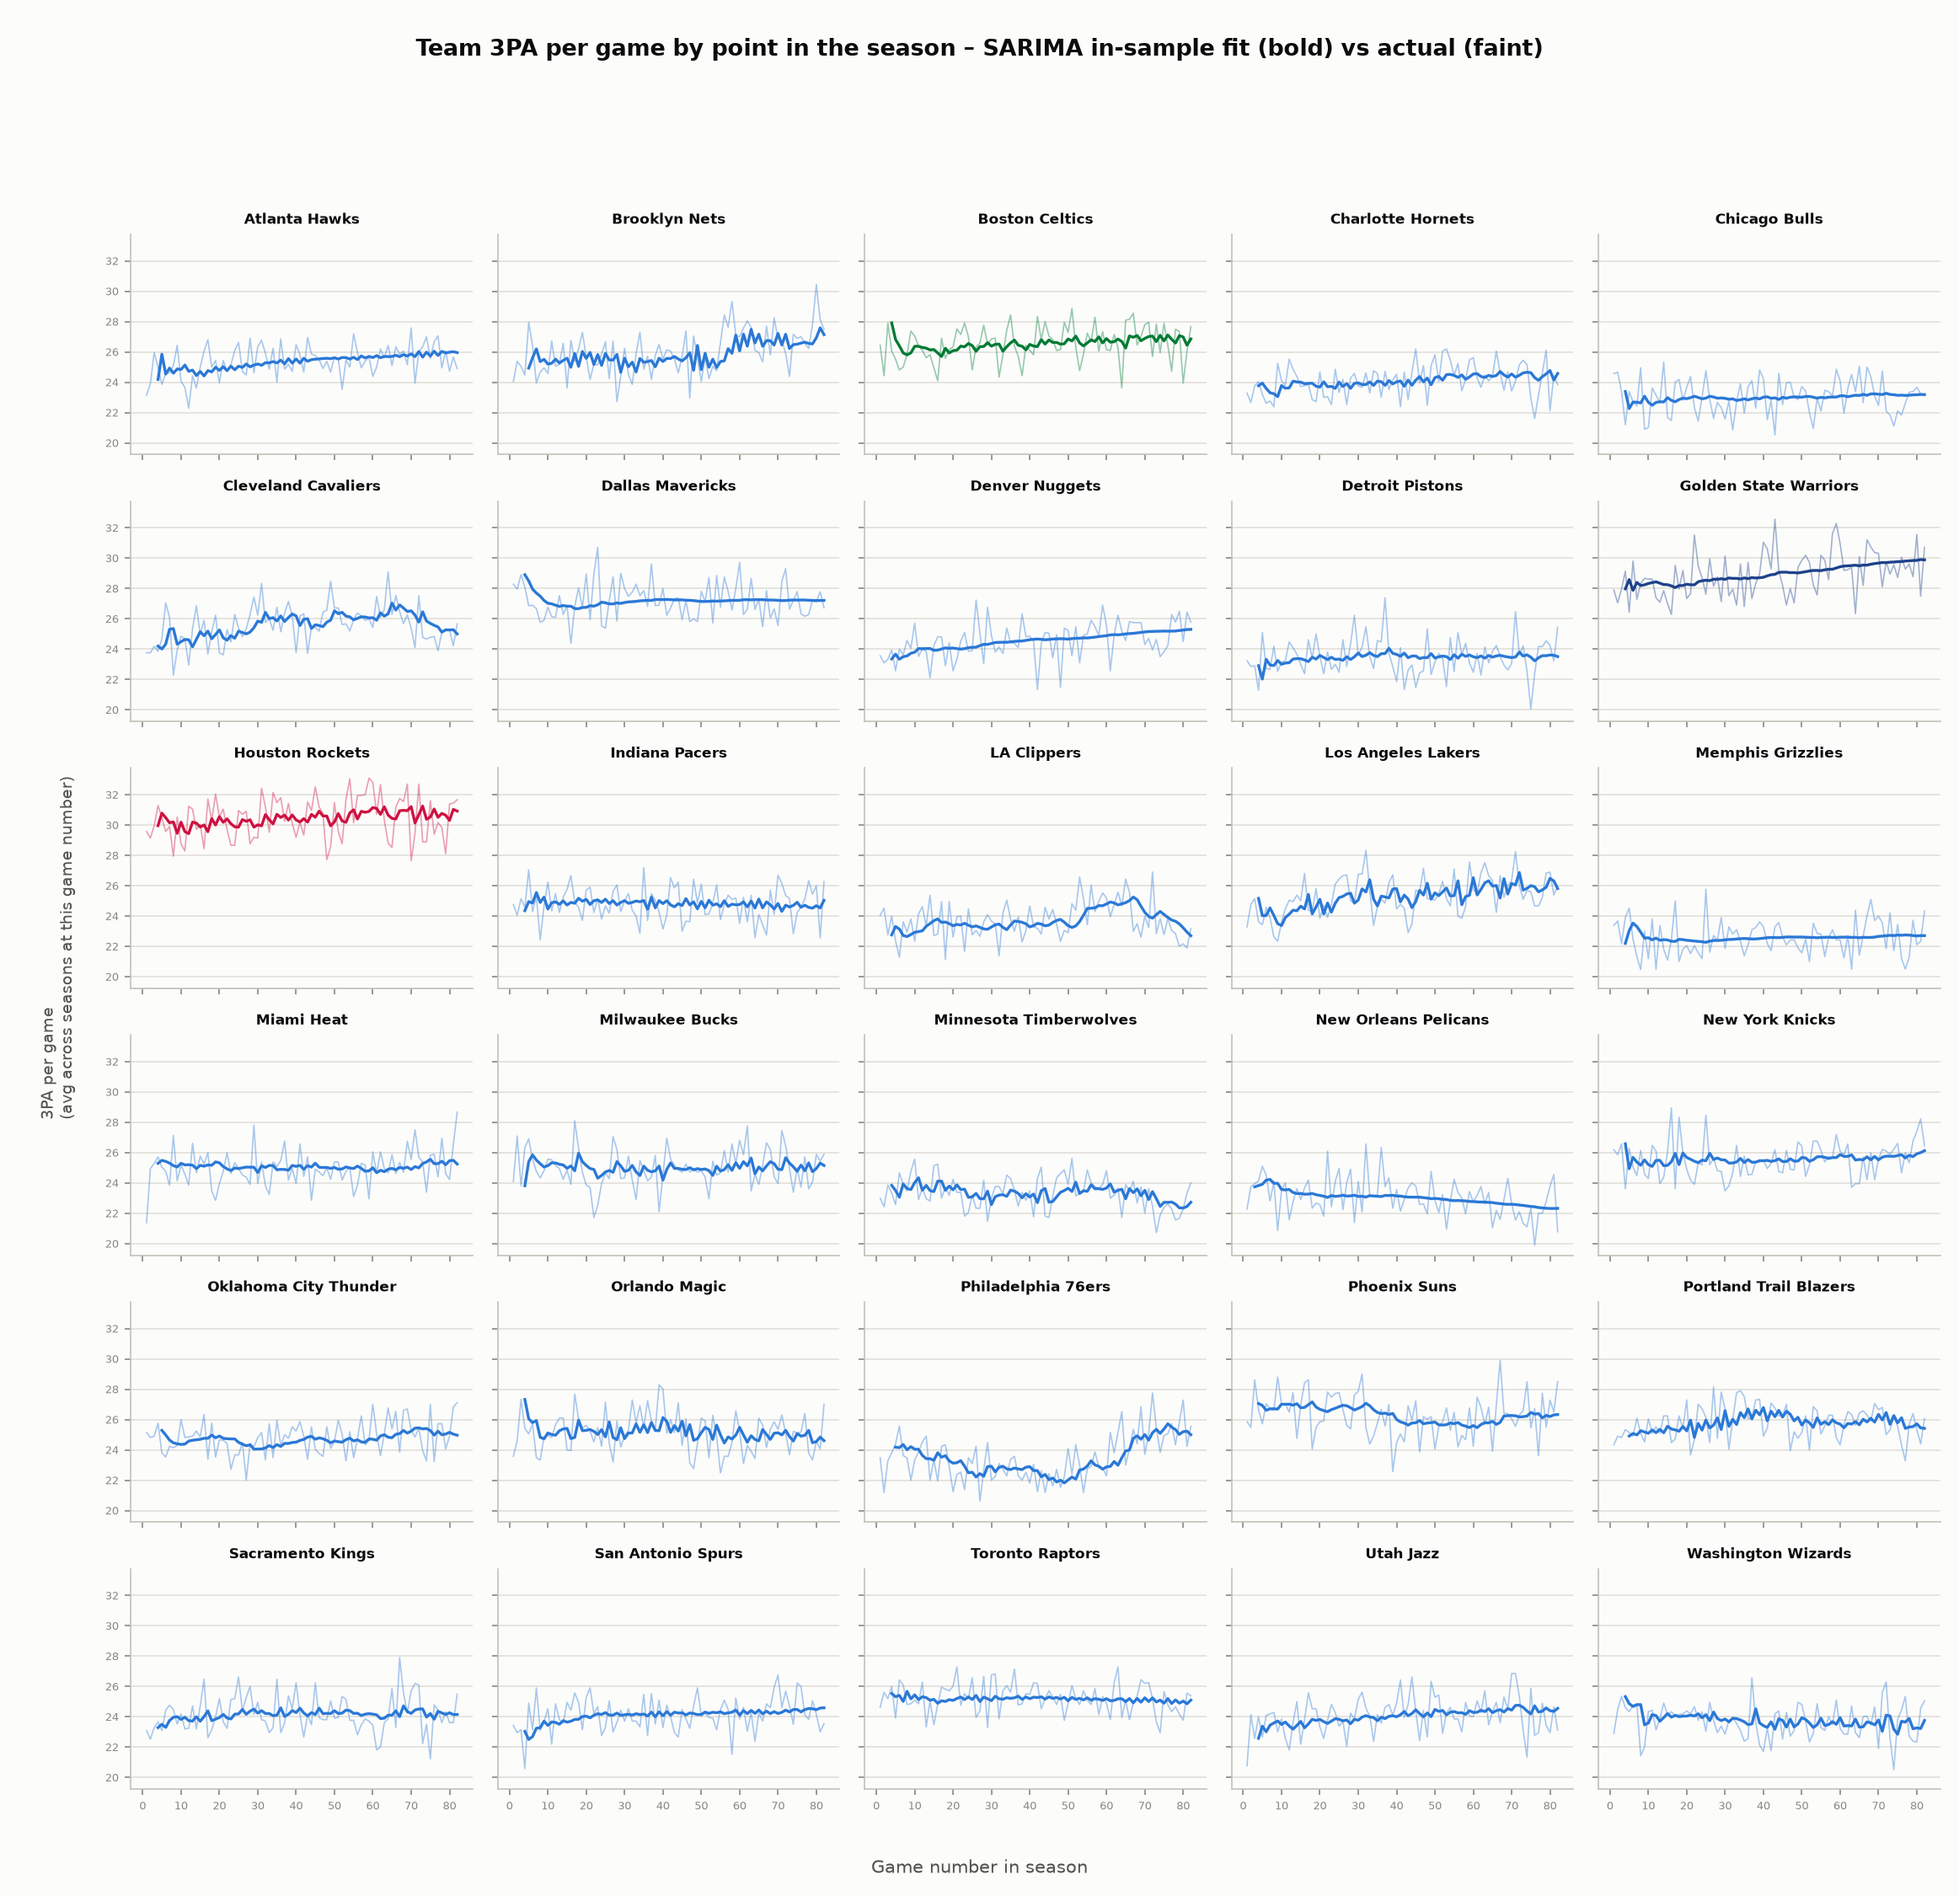
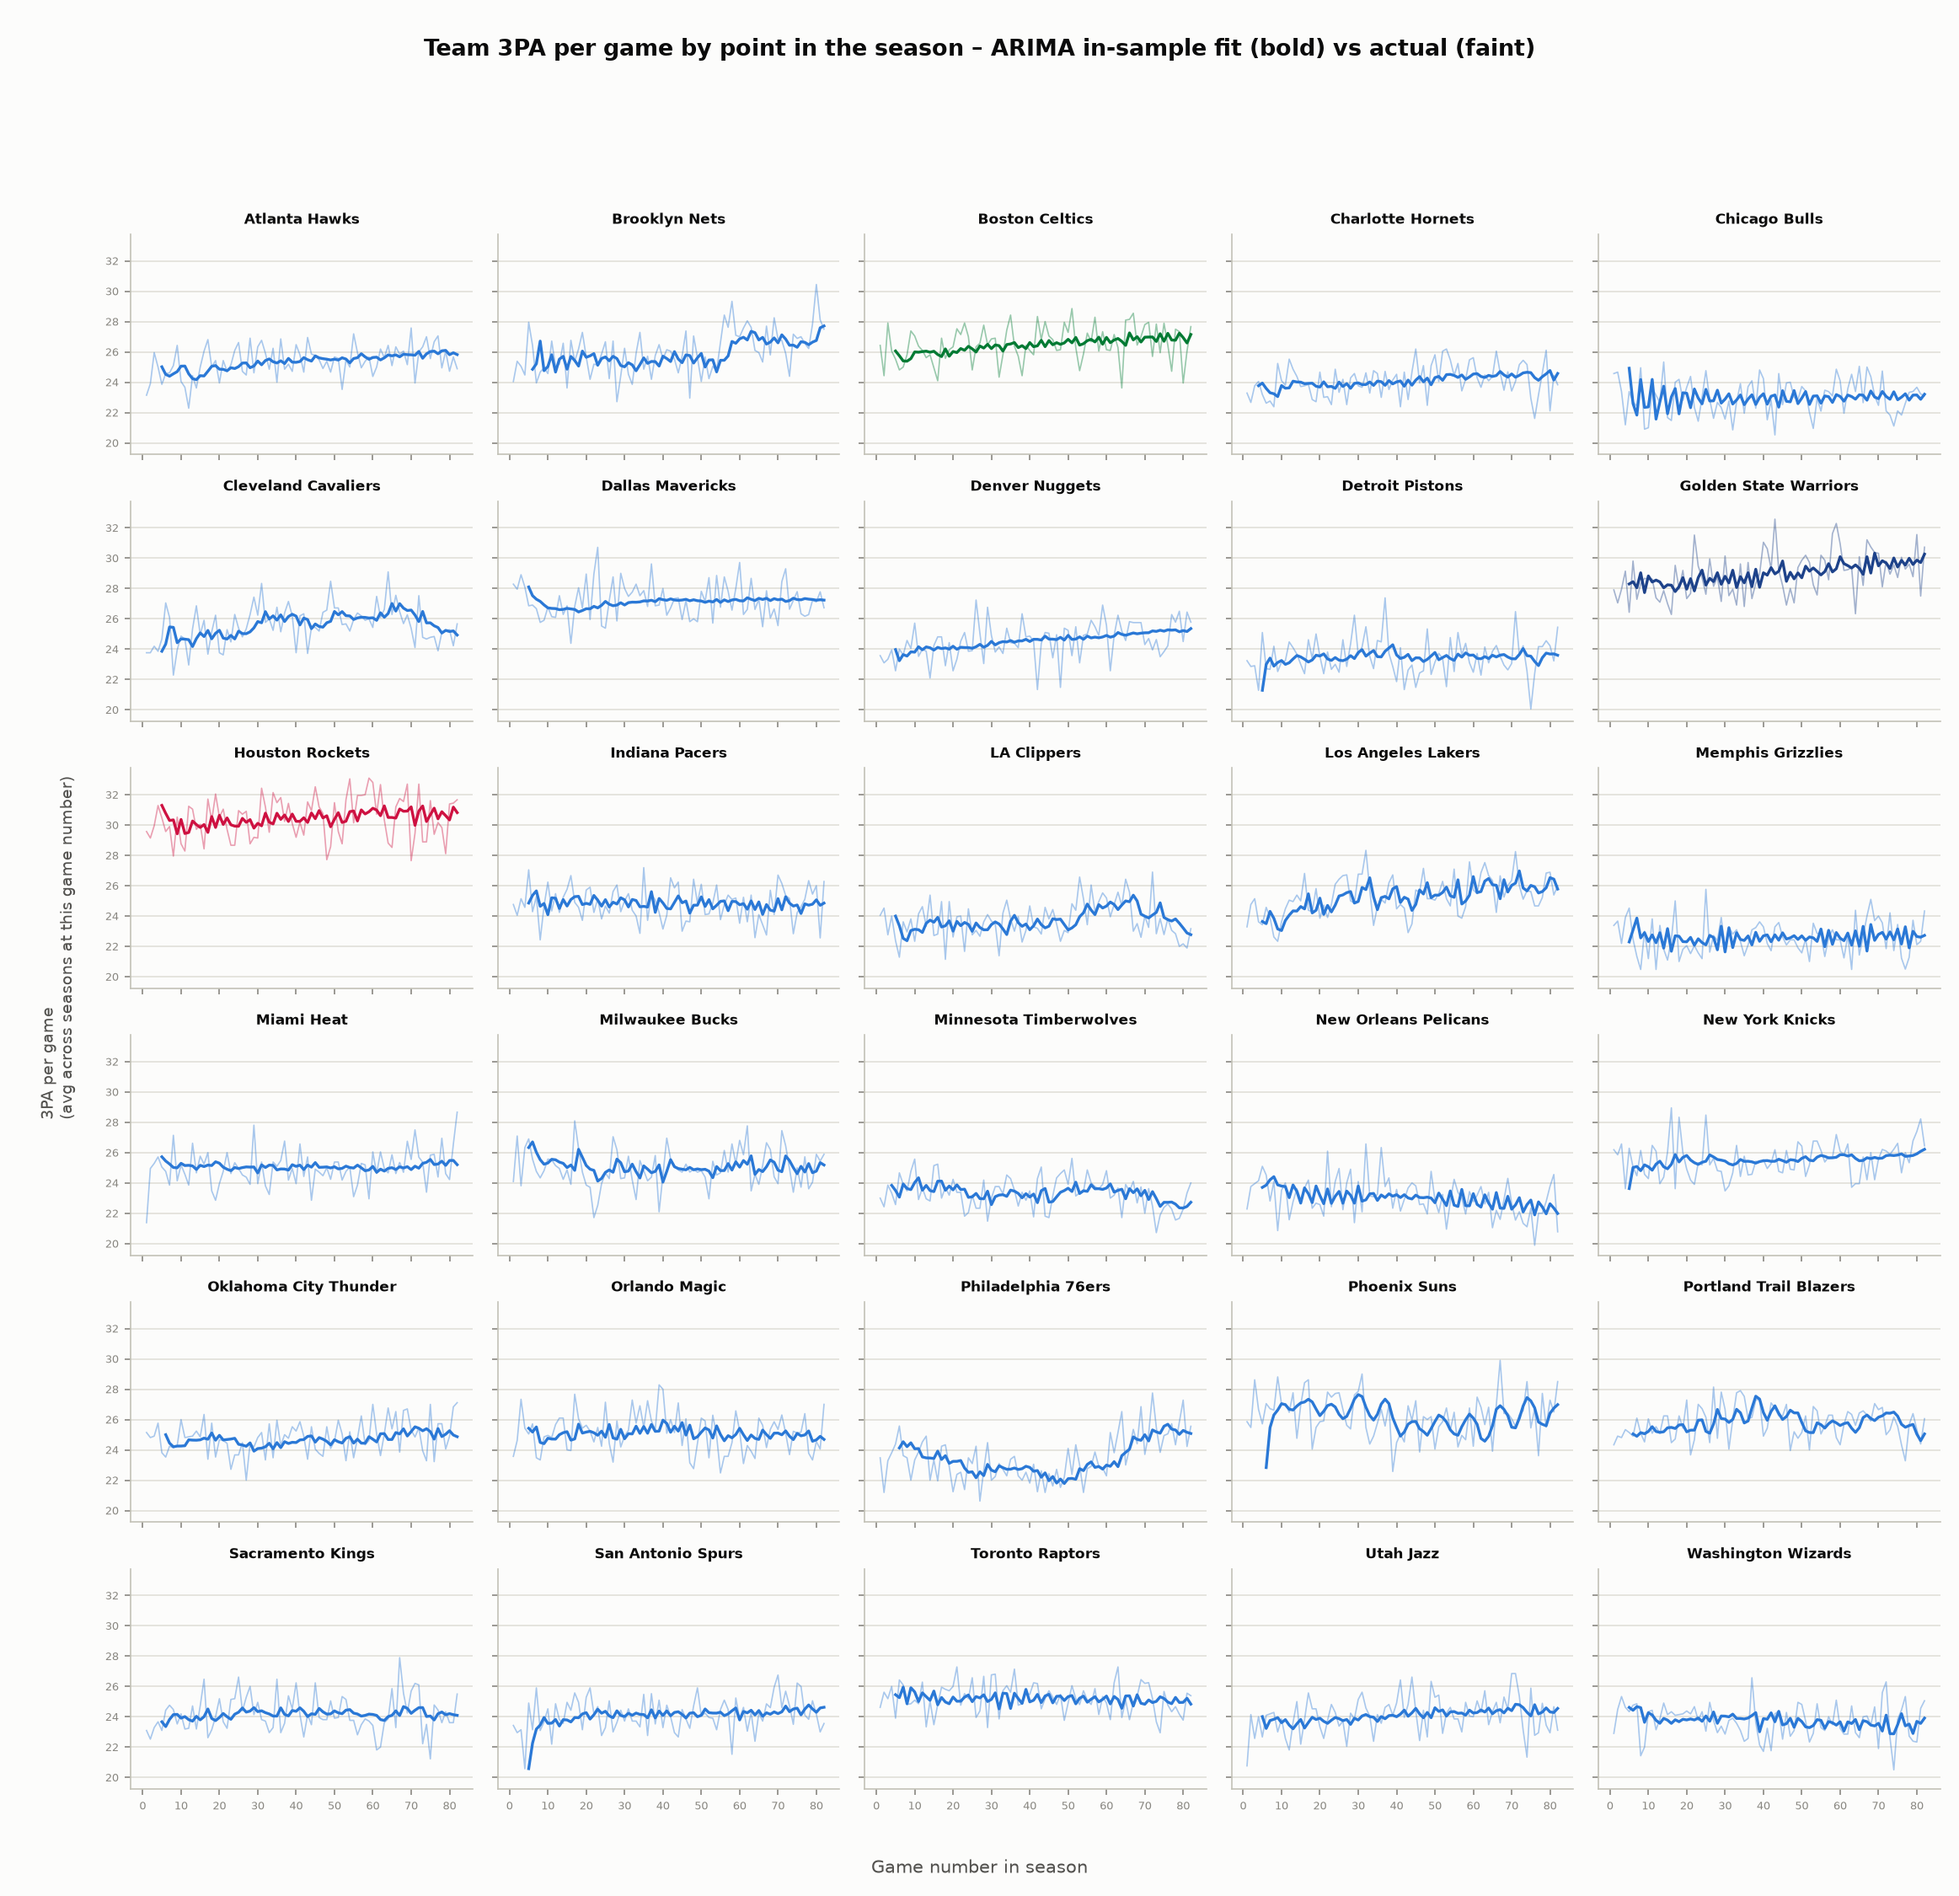
changed AIC to AICc and fixed axis labels

diff --git a/src/sarima_analysis.py b/src/sarima_analysis.py
@@ -16,7 +16,7 @@ TS_FOLDER = PROJECT_FOLDER / "outputs" / "time_series"
 OUTPUT_FOLDER = PROJECT_FOLDER / "outputs" / "sarima"
 
 FORECAST_SEASONS = 3
-P_RANGE, Q_RANGE = range(3), range(3)
+P_RANGE, Q_RANGE = range(4), range(4)
 MAX_D = 1
 ADF_ALPHA = 0.05
 
@@ -63,7 +63,8 @@ def select_d(series, max_d=MAX_D, alpha=ADF_ALPHA):
     for d in range(max_d + 1):
         try:
             pvalue = adfuller(diffed, autolag="AIC")[1]
-        except Exception:
+        except Exception as exc:
+            print(f"select_d: ADF test failed at d={d} ({exc}); defaulting to d={max_d}")
             return max_d
         if pvalue < alpha:
             return d
@@ -71,7 +72,7 @@ def select_d(series, max_d=MAX_D, alpha=ADF_ALPHA):
     return max_d
 
 
-# Grid-search (p, q) by AIC with d fixed by select_d; seasonal order fixed at (0, 0, 0, 0)
+# Grid-search (p, q) by AICc with d fixed by select_d; seasonal order fixed at (0, 0, 0, 0)
 def fit_best_order(series):
     d = select_d(series)
     best = None
@@ -85,10 +86,10 @@ def fit_best_order(series):
                 enforce_stationarity=False, enforce_invertibility=False,
             ).fit(disp=False)
         except Exception:
-            attempts.append({"ORDER": (p, d, q), "AIC": float("nan")})
+            attempts.append({"ORDER": (p, d, q), "AICC": float("nan")})
             continue
-        attempts.append({"ORDER": (p, d, q), "AIC": fit.aic})
-        if best is None or fit.aic < best[0].aic:
+        attempts.append({"ORDER": (p, d, q), "AICC": fit.aicc})
+        if best is None or fit.aicc < best[0].aicc:
             best = (fit, (p, d, q))
     return best, attempts
 
@@ -110,7 +111,7 @@ def analyze_league_trend():
 
     result, attempts = fit_best_order(league)
     if result is None:
-        print("League trend: no SARIMA model converged")
+        print("League trend: no ARIMA model converged")
         return
     fit, order = result
 
@@ -135,10 +136,10 @@ def analyze_league_trend():
     ax.fill_between(x_fcst, forecast_ci.iloc[:, 0], forecast_ci.iloc[:, 1], color=COLOR["highlight"], alpha=0.2, label="95% CI")
 
     ax.set_xticks(list(x_hist) + list(x_fcst))
-    ax.set_xticklabels(all_labels, rotation=45, ha="right", fontsize=8, color=COLOR["secondary_ink"])
+    ax.set_xticklabels([label[-5:] for label in all_labels], rotation=45, ha="right", fontsize=8, color=COLOR["secondary_ink"])
     ax.set_ylabel("League-wide 3PA per game", color=COLOR["primary_ink"])
     ax.set_title(
-        f"SARIMA({order[0]},{order[1]},{order[2]}) forecast – league-wide 3PA per game",
+        f"ARIMA({order[0]},{order[1]},{order[2]}) forecast – league-wide 3PA per game",
         color=COLOR["primary_ink"], fontsize=13, fontweight="bold", pad=14,
     )
     style_axis(ax, labelsize=9)
@@ -150,7 +151,7 @@ def analyze_league_trend():
     fig.savefig(OUTPUT_FOLDER / "league_3pa_sarima.png", facecolor=fig.get_facecolor())
     plt.close(fig)
 
-    # Save a summary CSV with every attempted order and its AIC, plus the forecast for the best order
+    # Save a summary CSV with every attempted order and its AICc, plus the forecast for the best order
     for row in attempts:
         is_best = row["ORDER"] == order
         row["SERIES"] = "LEAGUE"
@@ -158,10 +159,10 @@ def analyze_league_trend():
         for s, v in zip(future_seasons, forecast_mean):
             row[f"FORECAST_{s}"] = v if is_best else None
     summary = pd.DataFrame(attempts)[
-        ["SERIES", "ORDER", "AIC", "BEST"] + [f"FORECAST_{s}" for s in future_seasons]
-    ].sort_values("AIC", na_position="last")
+        ["SERIES", "ORDER", "AICC", "BEST"] + [f"FORECAST_{s}" for s in future_seasons]
+    ].sort_values("AICC", na_position="last")
     summary.to_csv(OUTPUT_FOLDER / "league_3pa_sarima_summary.csv", index=False)
-    print(f"League trend: SARIMA{order}, AIC {fit.aic:.1f}")
+    print(f"League trend: ARIMA{order}, AICc {fit.aicc:.1f}")
 
 
 # Team-by-team 3PA/game per season
@@ -171,6 +172,11 @@ def analyze_team_season_trend():
 
     future_seasons = [f"{year}-{str(year + 1)[-2:]}" for year in range(2025, 2025 + FORECAST_SEASONS)]
     n_hist = len(SEASONS)
+    all_labels = SEASONS + future_seasons
+    tick_step = 3
+    tick_idx = range(0, len(all_labels), tick_step)
+    tick_pos = list(tick_idx)
+    tick_labels = [all_labels[i][-5:] for i in tick_idx]
 
     ncols = 5
     nrows = -(-len(teams) // ncols)
@@ -196,13 +202,16 @@ def analyze_team_season_trend():
             ax.plot(fx, forecast_mean, color=color, linewidth=1.3, linestyle="--")
             ax.fill_between(fx, forecast_ci.iloc[:, 0], forecast_ci.iloc[:, 1], color=color, alpha=0.15)
             rows.append({
-                "TEAM": team, "ORDER": order, "AIC": fit.aic,
+                "TEAM": team, "ORDER": order, "AICC": fit.aicc,
                 **{f"FORECAST_{s}": v for s, v in zip(future_seasons, forecast_mean)},
             })
         else:
-            rows.append({"TEAM": team, "ORDER": None, "AIC": None})
+            rows.append({"TEAM": team, "ORDER": None, "AICC": None})
 
         ax.set_title(team, fontsize=8, fontweight="bold", color=COLOR["primary_ink"])
+        ax.set_xticks(tick_pos)
+        ax.set_xticklabels(tick_labels, rotation=90, fontsize=6, color=COLOR["secondary_ink"])
+        ax.label_outer()
         style_axis(ax)
 
     for ax in axes.flat[len(teams):]:
@@ -211,7 +220,7 @@ def analyze_team_season_trend():
     fig.supxlabel("Season", color=COLOR["secondary_ink"], fontsize=10)
     fig.supylabel("3PA per game", color=COLOR["secondary_ink"], fontsize=9)
     fig.suptitle(
-        f"Team-by-team 3PA/game per season – SARIMA fit + {FORECAST_SEASONS}-season forecast\n"
+        f"Team-by-team 3PA/game per season – ARIMA fit + {FORECAST_SEASONS}-season forecast\n"
         "(dashed line/band: forecast and its 95% CI)",
         color=COLOR["primary_ink"], fontsize=13, fontweight="bold",
     )
@@ -247,9 +256,9 @@ def _analyze_team_matchweek(csv_name, ylabel, title, out_name):
             # The first `loglikelihood_burn` fitted values are an unreliable Kalman-filter warm-up artifact
             burn = fit.loglikelihood_burn
             ax.plot(series.index[burn:], fit.fittedvalues.values[burn:], color=color, linewidth=1.6)
-            rows.append({"TEAM": team_name, "ORDER": order, "AIC": fit.aic})
+            rows.append({"TEAM": team_name, "ORDER": order, "AICC": fit.aicc})
         else:
-            rows.append({"TEAM": team_name, "ORDER": None, "AIC": None})
+            rows.append({"TEAM": team_name, "ORDER": None, "AICC": None})
 
         ax.set_title(team_name, fontsize=8, fontweight="bold", color=COLOR["primary_ink"])
         style_axis(ax, labelsize=6)
@@ -260,7 +269,7 @@ def _analyze_team_matchweek(csv_name, ylabel, title, out_name):
     fig.supxlabel("Game number in season", color=COLOR["secondary_ink"], fontsize=10)
     fig.supylabel(ylabel, color=COLOR["secondary_ink"], fontsize=9)
     fig.suptitle(
-        f"{title} – SARIMA in-sample fit (bold) vs actual (faint)",
+        f"{title} – ARIMA in-sample fit (bold) vs actual (faint)",
         color=COLOR["primary_ink"], fontsize=13, fontweight="bold",
     )
     fig.tight_layout(rect=(0.015, 0.015, 1, 0.92))
